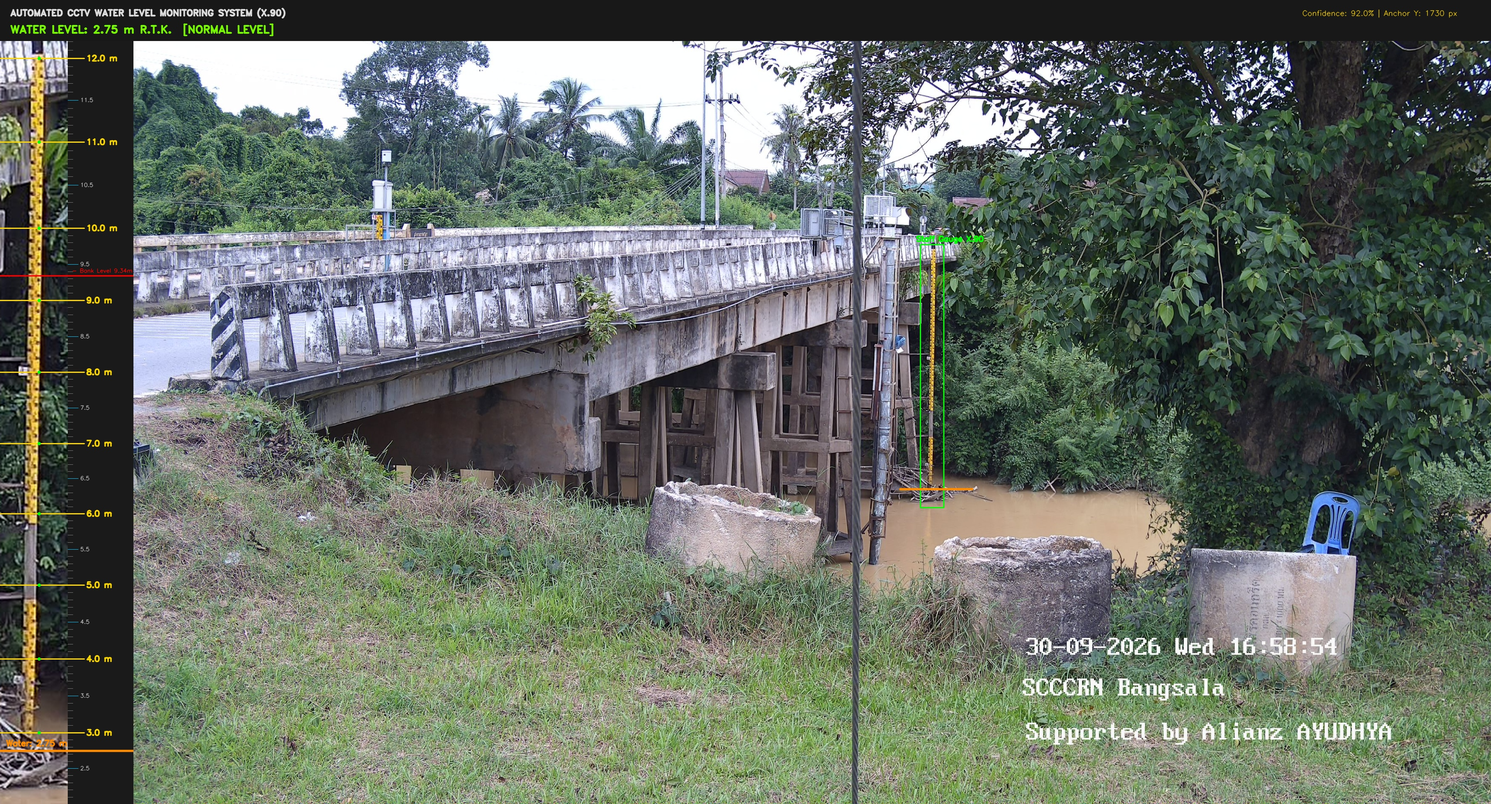
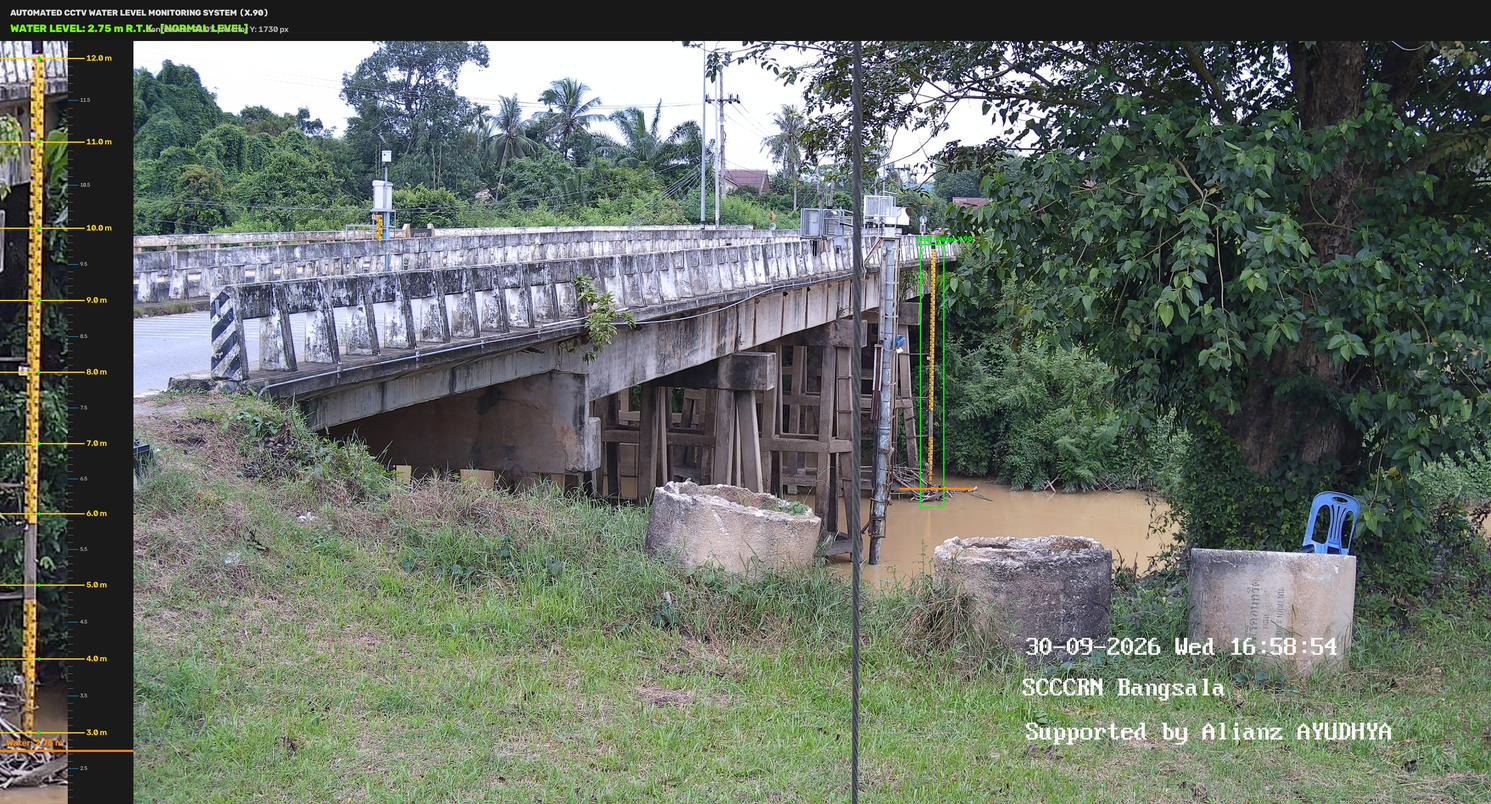
clean(vision): remove unused debug artifacts, temporary outputs, and duplicate sample images

diff --git a/non_time_series/pipelines/run_station1_muangkong.py b/non_time_series/pipelines/run_station1_muangkong.py
@@ -22,7 +22,7 @@ from core.water_surface_detector import WaterSurfaceDetector
 from core.excel_logger import WaterLevelExcelLogger
 
 CFG_PATH = os.path.join(BASE_DIR, "configs", "station1_muangkong.json")
-DEFAULT_IMG = os.path.join(BASE_DIR, "sample_images", "station1_muangkong.jpg")
+DEFAULT_IMG = os.path.join(BASE_DIR, "sample_images", "station1_muangkong_daytime.jpg")
 
 
 def main():
@@ -77,19 +77,15 @@ def main():
 
     dashboard = build_dashboard(frame, enhanced, water_info, pole_mgr, calibrator, cfg, img_src_name)
     
-    # บันทึกทั้งชื่อมาตรฐานและชื่อ Benchmark
+    # บันทึกภาพผลลัพธ์ Benchmark
     os.makedirs(os.path.join(BASE_DIR, "output"), exist_ok=True)
     if args.output:
         out_path = args.output
-        cv2.imwrite(out_path, dashboard)
+    elif args.night or "night" in img_src_name.lower():
+        out_path = os.path.join(BASE_DIR, "output", "result_muang_kong_nighttime_normal.jpg")
     else:
-        out_path = os.path.join(BASE_DIR, "output", "muangkong_result_dashboard.jpg")
-        cv2.imwrite(out_path, dashboard)
-        if args.night or "night" in img_src_name.lower():
-            bench_out = os.path.join(BASE_DIR, "output", "result_muang_kong_nighttime_normal.jpg")
-        else:
-            bench_out = os.path.join(BASE_DIR, "output", "result_muang_kong_daytime_normal.jpg")
-        cv2.imwrite(bench_out, dashboard)
+        out_path = os.path.join(BASE_DIR, "output", "result_muang_kong_daytime_normal.jpg")
+    cv2.imwrite(out_path, dashboard)
 
     print("=" * 70)
     print(f"🌊 [Station 1] สะพานบ้านม่วงก็อง (X.173A)")

diff --git a/non_time_series/pipelines/run_station3_hatyainai.py b/non_time_series/pipelines/run_station3_hatyainai.py
@@ -71,17 +71,11 @@ def main():
     os.makedirs(os.path.join(BASE_DIR, "output"), exist_ok=True)
     if args.output:
         out_path = args.output
-        cv2.imwrite(out_path, dashboard)
+    elif args.flood or "flood" in img_src_name.lower():
+        out_path = os.path.join(BASE_DIR, "output", "result_hatayi_daytime_generate_flood.jpg")
     else:
-        out_path = os.path.join(BASE_DIR, "output", "hatyainai_result_dashboard.jpg")
-        cv2.imwrite(out_path, dashboard)
-        if args.flood or "flood" in img_src_name.lower():
-            bench_out = os.path.join(BASE_DIR, "output", "result_hatayi_daytime_generate_flood.jpg")
-        elif args.night or "night" in img_src_name.lower():
-            bench_out = os.path.join(BASE_DIR, "output", "result_hatyai_nighttime_normal.jpg")
-        else:
-            bench_out = os.path.join(BASE_DIR, "output", "result_hatyai_nighttime_normal.jpg")
-        cv2.imwrite(bench_out, dashboard)
+        out_path = os.path.join(BASE_DIR, "output", "result_hatyai_nighttime_normal.jpg")
+    cv2.imwrite(out_path, dashboard)
 
     print("=" * 70)
     print(f"🌊 [Station 3] สะพานหาดใหญ่นอก (X.44)")

diff --git a/non_time_series/pipelines/run_station2_bangsala.py b/non_time_series/pipelines/run_station2_bangsala.py
@@ -67,15 +67,11 @@ def main():
     os.makedirs(os.path.join(BASE_DIR, "output"), exist_ok=True)
     if args.output:
         out_path = args.output
-        cv2.imwrite(out_path, dashboard)
+    elif args.night or "night" in img_src_name.lower():
+        out_path = os.path.join(BASE_DIR, "output", "result_bangsala_nighttime.jpg")
     else:
-        out_path = os.path.join(BASE_DIR, "output", "bangsala_result_dashboard.jpg")
-        cv2.imwrite(out_path, dashboard)
-        if args.night or "night" in img_src_name.lower():
-            bench_out = os.path.join(BASE_DIR, "output", "result_bangsala_nighttime.jpg")
-        else:
-            bench_out = os.path.join(BASE_DIR, "output", "result_bangsala_daytime_normal.jpg")
-        cv2.imwrite(bench_out, dashboard)
+        out_path = os.path.join(BASE_DIR, "output", "result_bangsala_daytime_normal.jpg")
+    cv2.imwrite(out_path, dashboard)
 
     print("=" * 70)
     print(f"🌊 [Station 2] สะพานบางศาลา (X.90)")

diff --git a/non_time_series/tools/step1_crop_and_enhance.py b/non_time_series/tools/step1_crop_and_enhance.py
@@ -25,8 +25,8 @@ CONFIG_MAP = {
 }
 
 DEFAULT_IMAGES = {
-    "muangkong": os.path.join(BASE_DIR, "sample_images", "station1_muangkong.jpg"),
-    "bangsala": os.path.join(BASE_DIR, "sample_images", "station2_bangsala.png"),
+    "muangkong": os.path.join(BASE_DIR, "sample_images", "station1_muangkong_daytime.jpg"),
+    "bangsala": os.path.join(BASE_DIR, "sample_images", "station2_bangsala_daytime.jpg"),
     "hatyainai": os.path.join(BASE_DIR, "sample_images", "station3_hatyainai_daytime.jpg")
 }
 

diff --git a/non_time_series/tools/step3_detect_water_level.py b/non_time_series/tools/step3_detect_water_level.py
@@ -31,8 +31,8 @@ CONFIG_MAP = {
 }
 
 DEFAULT_IMAGES = {
-    "muangkong": os.path.join(BASE_DIR, "sample_images", "station1_muangkong.jpg"),
-    "bangsala": os.path.join(BASE_DIR, "sample_images", "station2_bangsala.png"),
+    "muangkong": os.path.join(BASE_DIR, "sample_images", "station1_muangkong_daytime.jpg"),
+    "bangsala": os.path.join(BASE_DIR, "sample_images", "station2_bangsala_daytime.jpg"),
     "hatyainai": os.path.join(BASE_DIR, "sample_images", "station3_hatyainai_daytime.jpg")
 }
 
